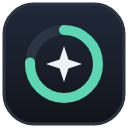
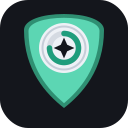
Sync the social card to Token Police and the new mark
The rename landed on main after the first OG card shipped, so the
1200x630 image and a few English meta fallbacks still said Coding
Agents Usage. Rebuild the card with the Token Police name and the
shield-and-token icon from the logo branch.

diff --git a/docs/index.html b/docs/index.html
@@ -27,13 +27,13 @@
 <meta property="og:image" content="https://token-tracking.philosophie.ai/og-image.png">
 <meta property="og:image:width" content="1200">
 <meta property="og:image:height" content="630">
-<meta property="og:image:alt" data-i18n-content="meta.ogTitle" content="Coding Agents Usage — your AI coding quota, at a glance">
-<meta property="og:site_name" data-i18n-content="brand" content="Coding Agents Usage">
+<meta property="og:image:alt" data-i18n-content="meta.ogTitle" content="Token Police — your AI coding quota, at a glance">
+<meta property="og:site_name" data-i18n-content="brand" content="Token Police">
 <meta property="og:type" content="website">
 <meta property="og:url" content="{{canonical}}">
 <meta property="og:locale" content="{{ogLocale}}">
 <meta name="twitter:card" content="summary_large_image">
-<meta name="twitter:title" data-i18n-content="meta.ogTitle" content="Coding Agents Usage — your AI coding quota, at a glance">
+<meta name="twitter:title" data-i18n-content="meta.ogTitle" content="Token Police — your AI coding quota, at a glance">
 <meta name="twitter:description" data-i18n-content="meta.ogDescription" content="Free Chrome extension: remaining usage for Claude Code, Codex, Cursor, Grok and Gemini in one side panel. Download the latest release.">
 <meta name="twitter:image" content="https://token-tracking.philosophie.ai/og-image.png">
 <style>

diff --git a/scripts/build-og-image.py b/scripts/build-og-image.py
@@ -54,13 +54,13 @@ def main():
     canvas.paste(icon, (72, 72), icon)
 
     draw = ImageDraw.Draw(canvas)
-    title = font("Inter-Bold.ttf", 44)
+    title = font("Inter-Bold.ttf", 52)
     tag = font("Inter-SemiBold.ttf", 24)
     body = font("Inter-Medium.ttf", 20)
     chip_font = font("Inter-SemiBold.ttf", 17)
     foot = font("Inter-Medium.ttf", 16)
 
-    draw.text((188, 78), "Coding Agents Usage", font=title, fill=FG)
+    draw.text((188, 78), "Token Police", font=title, fill=FG)
     draw.text((188, 134), "Your AI coding quota, at a glance.", font=tag, fill=ACCENT)
 
     draw.multiline_text(
@@ -97,6 +97,11 @@ def main():
     scale = target_w / shot.width
     shot = shot.resize((target_w, int(shot.height * scale)), Image.Resampling.LANCZOS)
     shot = shot.crop((0, 0, shot.width, 530))
+    # Screenshots still say CODING AGENTS; cover that header until they are recaptured.
+    header = font("Inter-Bold.ttf", 13)
+    hd = ImageDraw.Draw(shot)
+    hd.rectangle((0, 0, shot.width, 40), fill=(20, 22, 28, 255))
+    hd.text((14, 12), "✦  TOKEN POLICE", font=header, fill=FG)
     shot = rounded(shot, 20)
 
     sx, sy = 760, 36
